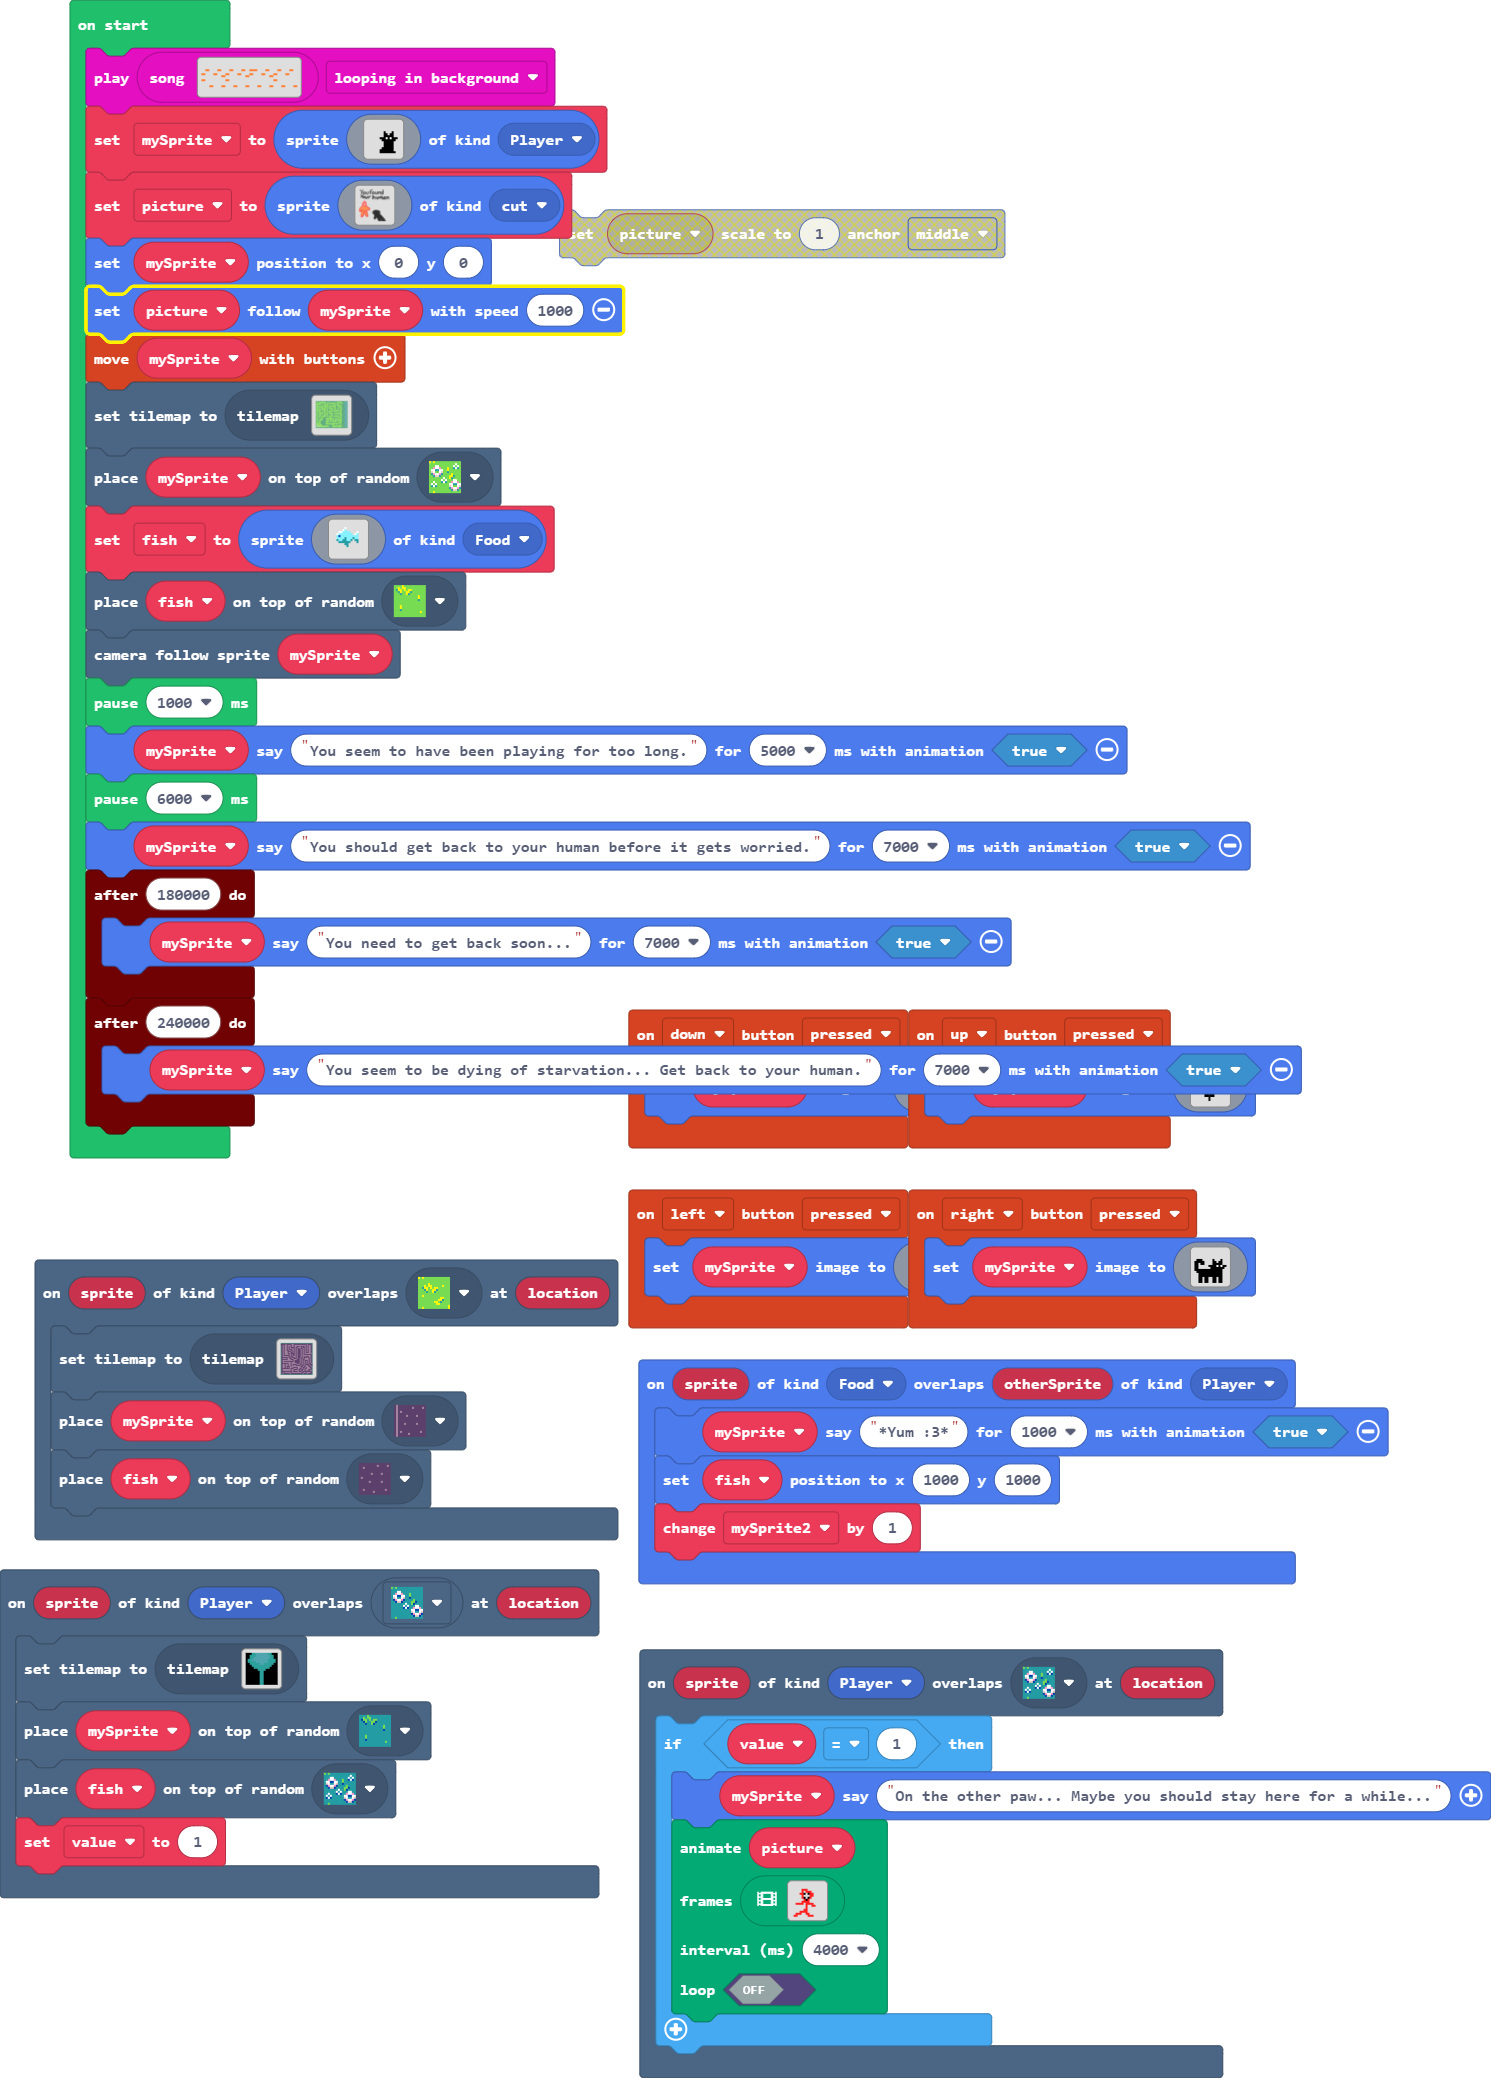
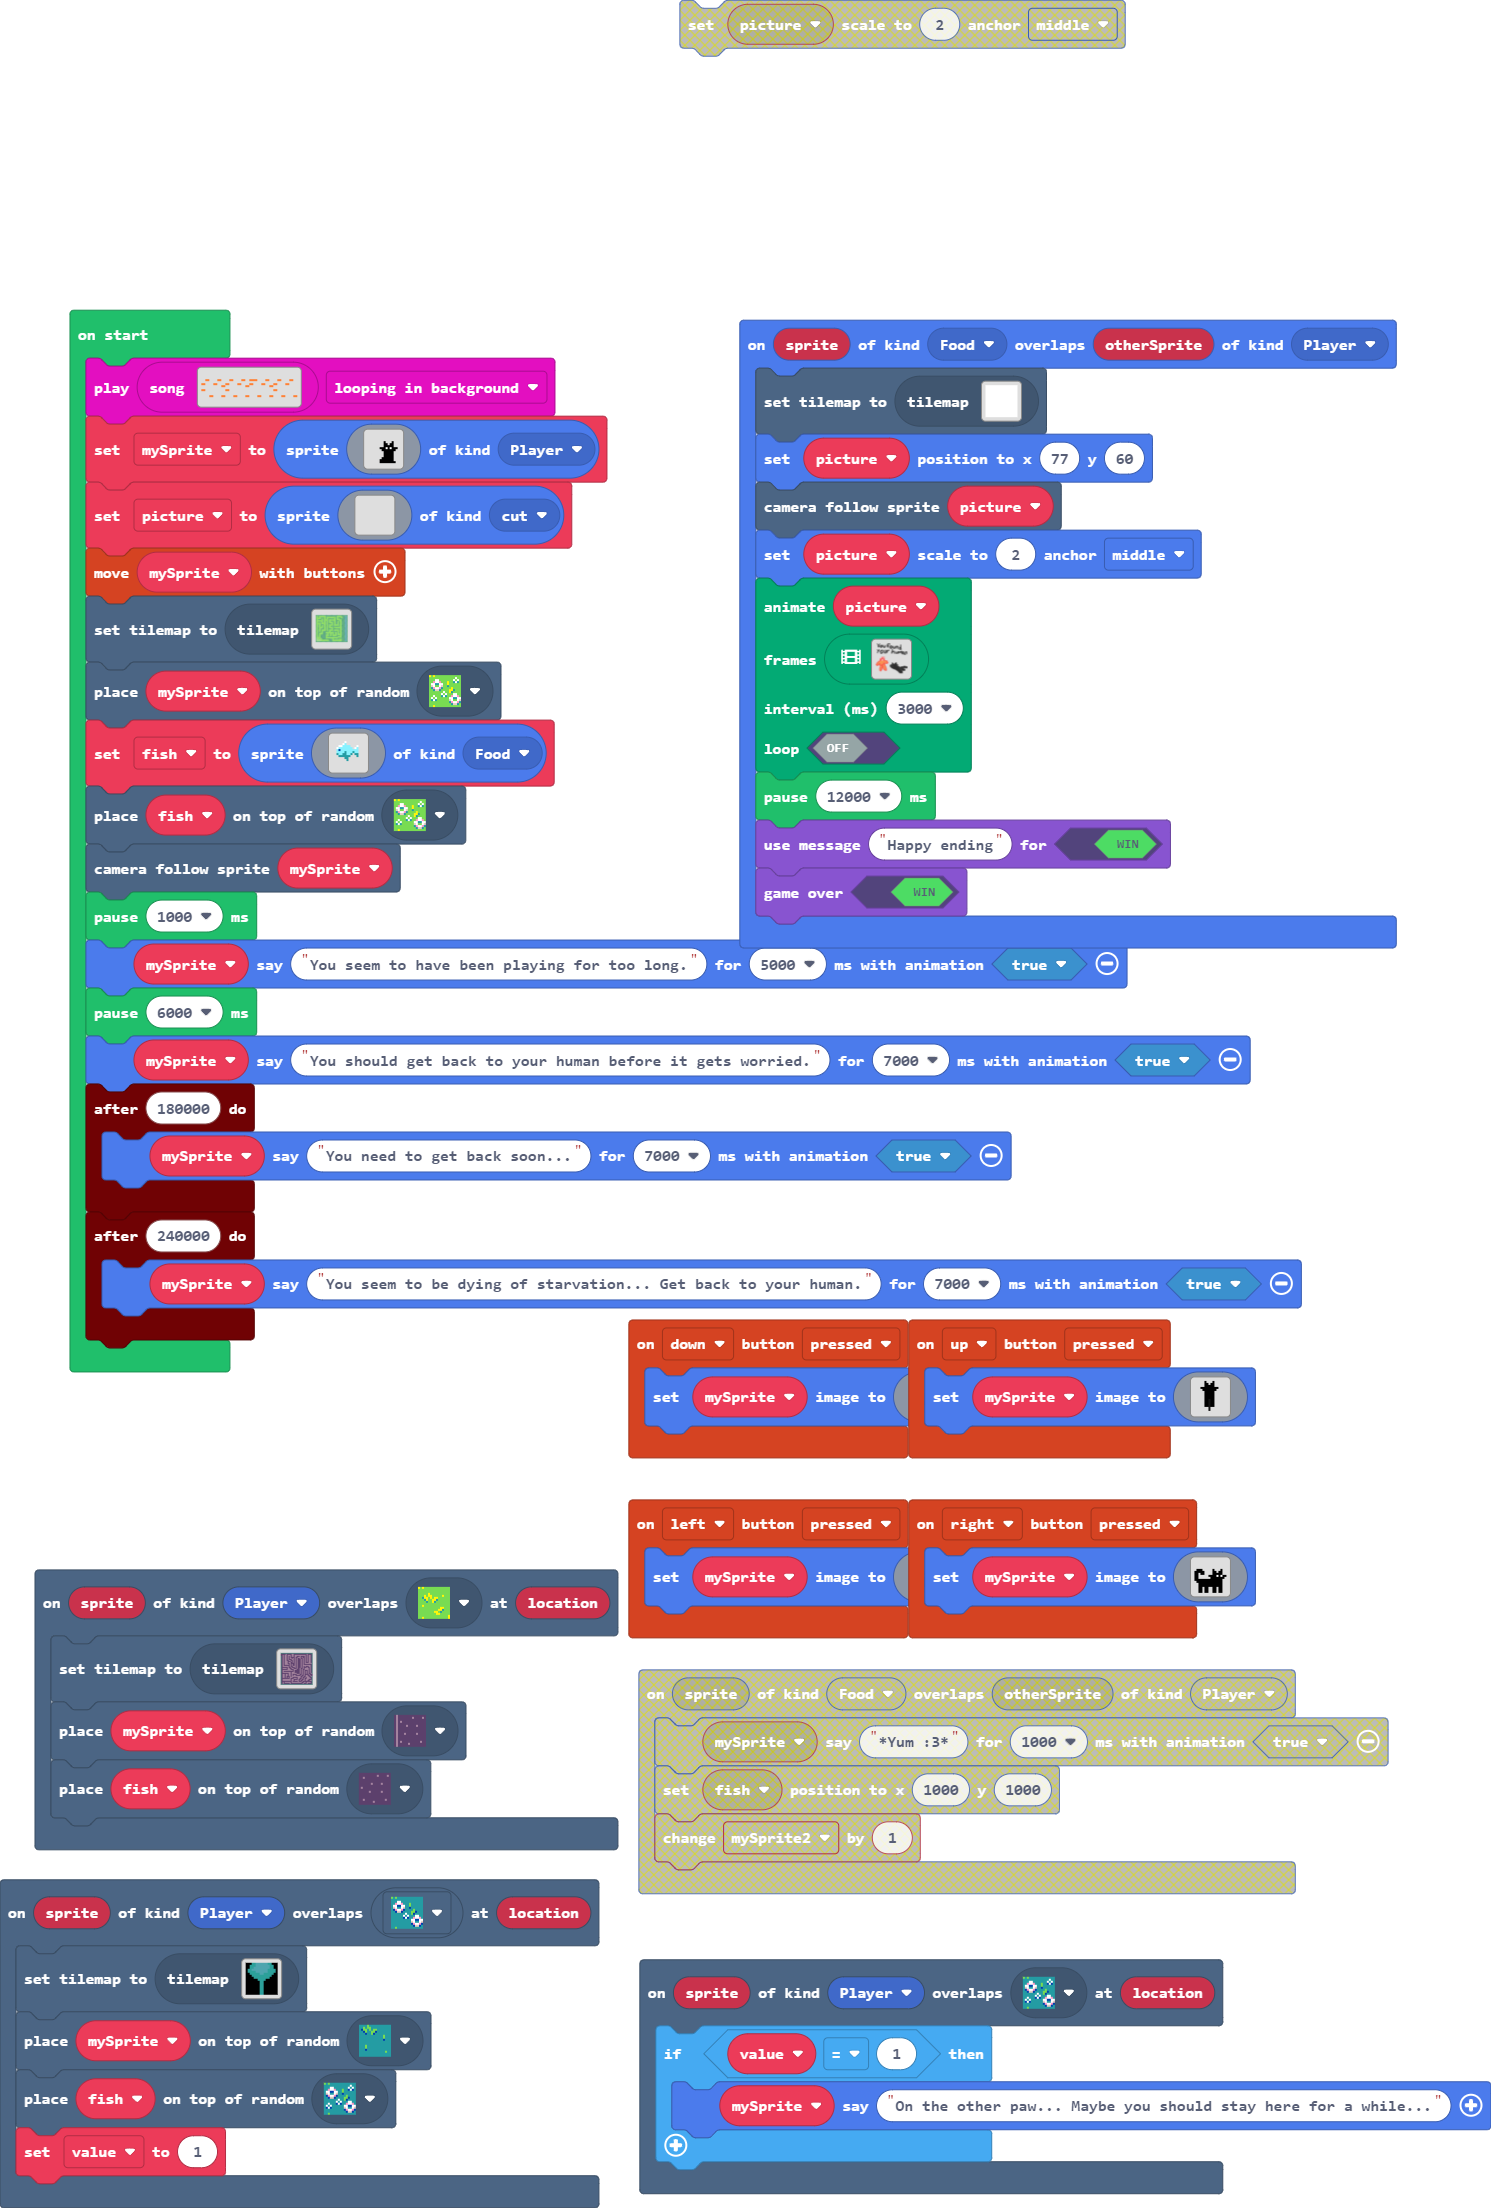
Update main.blocks, main.ts, tilemap.g.jres, tilemap.g.ts, images.g.jres, images.g.ts

diff --git a/tilemap.g.ts b/tilemap.g.ts
@@ -4,6 +4,10 @@ namespace myTiles {
     export const transparency16 = image.ofBuffer(hex``);
     //% fixedInstance jres blockIdentity=images._tile
     export const tile1 = image.ofBuffer(hex``);
+    //% fixedInstance jres blockIdentity=images._tile
+    export const tile3 = image.ofBuffer(hex``);
+    //% fixedInstance jres blockIdentity=images._tile
+    export const tile2 = image.ofBuffer(hex``);
 
     helpers._registerFactory("tilemap", function(name: string) {
         switch(helpers.stringTrim(name)) {
@@ -191,6 +195,82 @@ namespace myTiles {
 2...............2222.................2
 2.................................2222
 `, [myTiles.transparency16,sprites.castle.tileGrass2,sprites.builtin.forestTiles0,sprites.castle.tileGrass1,sprites.castle.tileGrass3,sprites.builtin.forestTiles16,sprites.castle.tileDarkGrass2,myTiles.tile1,sprites.builtin.forestTiles2,sprites.builtin.forestTiles3,sprites.builtin.forestTiles1], TileScale.Sixteen);
+            case "level10":
+            case "level10":return tiles.createTilemap(hex`1000100000000000000000000000000000000000000000000000000000000000000000000000000000000000000000000000000000000000000000000000000000000000000000000000000000000000000000000000000000000000000000000000000000000000000000000000000000000000000000000000000000000000000000000000000000000000000000000000000000000000000000000000000000000000000000000000000000000000000000000000000000000000000000000000000000000000000000000000000000000000000000000000000000000000000000000000000000000000000000000000000000000000000000000000000000000000`, img`
+. . . . . . . . . . . . . . . . 
+. . . . . . . . . . . . . . . . 
+. . . . . . . . . . . . . . . . 
+. . . . . . . . . . . . . . . . 
+. . . . . . . . . . . . . . . . 
+. . . . . . . . . . . . . . . . 
+. . . . . . . . . . . . . . . . 
+. . . . . . . . . . . . . . . . 
+. . . . . . . . . . . . . . . . 
+. . . . . . . . . . . . . . . . 
+. . . . . . . . . . . . . . . . 
+. . . . . . . . . . . . . . . . 
+. . . . . . . . . . . . . . . . 
+. . . . . . . . . . . . . . . . 
+. . . . . . . . . . . . . . . . 
+. . . . . . . . . . . . . . . . 
+`, [myTiles.transparency16], TileScale.Sixteen);
+            case "cutscene":
+            case "level11":return tiles.createTilemap(hex`1000100001010101010101010101010101010101010101010101010101010101010101010101010101010101010101010101010101010101010101010101010101010101010101010101010101010101010101010101010101010101010101010101010101010101010101010101010101010101010101010101010101010101010101010101010101010101010101010101010101010101010101010101010101010101010101010101010101010101010101010101010101010101010101010101010101010101010101010101010101010101010101010101010101010101010101010101010101010101010101010101010101010101010101010101010101010101`, img`
+. . . . . . . . . . . . . . . . 
+. . . . . . . . . . . . . . . . 
+. . . . . . . . . . . . . . . . 
+. . . . . . . . . . . . . . . . 
+. . . . . . . . . . . . . . . . 
+. . . . . . . . . . . . . . . . 
+. . . . . . . . . . . . . . . . 
+. . . . . . . . . . . . . . . . 
+. . . . . . . . . . . . . . . . 
+. . . . . . . . . . . . . . . . 
+. . . . . . . . . . . . . . . . 
+. . . . . . . . . . . . . . . . 
+. . . . . . . . . . . . . . . . 
+. . . . . . . . . . . . . . . . 
+. . . . . . . . . . . . . . . . 
+. . . . . . . . . . . . . . . . 
+`, [myTiles.transparency16,myTiles.tile2,myTiles.tile3], TileScale.Sixteen);
+            case "level12":
+            case "level12":return tiles.createTilemap(hex`1000100000000000000000000000000000000000000000000000000000000000000000000000000000000000000000000000000000000000000000000000000000000000000000000000000000000000000000000000000000000000000000000000000000000000000000000000000000000000000000000000000000000000000000000000000000000000000000000000000000000000000000000000000000000000000000000000000000000000000000000000000000000000000000000000000000000000000000000000000000000000000000000000000000000000000000000000000000000000000000000000000000000000000000000000000000000000`, img`
+. . . . . . . . . . . . . . . . 
+. . . . . . . . . . . . . . . . 
+. . . . . . . . . . . . . . . . 
+. . . . . . . . . . . . . . . . 
+. . . . . . . . . . . . . . . . 
+. . . . . . . . . . . . . . . . 
+. . . . . . . . . . . . . . . . 
+. . . . . . . . . . . . . . . . 
+. . . . . . . . . . . . . . . . 
+. . . . . . . . . . . . . . . . 
+. . . . . . . . . . . . . . . . 
+. . . . . . . . . . . . . . . . 
+. . . . . . . . . . . . . . . . 
+. . . . . . . . . . . . . . . . 
+. . . . . . . . . . . . . . . . 
+. . . . . . . . . . . . . . . . 
+`, [myTiles.transparency16], TileScale.Sixteen);
+            case "level13":
+            case "level13":return tiles.createTilemap(hex`1000100000000000000000000000000000000000000000000000000000000000000000000000000000000000000000000000000000000000000000000000000000000000000000000000000000000000000000000000000000000000000000000000000000000000000000000000000000000000000000000000000000000000000000000000000000000000000000000000000000000000000000000000000000000000000000000000000000000000000000000000000000000000000000000000000000000000000000000000000000000000000000000000000000000000000000000000000000000000000000000000000000000000000000000000000000000000`, img`
+. . . . . . . . . . . . . . . . 
+. . . . . . . . . . . . . . . . 
+. . . . . . . . . . . . . . . . 
+. . . . . . . . . . . . . . . . 
+. . . . . . . . . . . . . . . . 
+. . . . . . . . . . . . . . . . 
+. . . . . . . . . . . . . . . . 
+. . . . . . . . . . . . . . . . 
+. . . . . . . . . . . . . . . . 
+. . . . . . . . . . . . . . . . 
+. . . . . . . . . . . . . . . . 
+. . . . . . . . . . . . . . . . 
+. . . . . . . . . . . . . . . . 
+. . . . . . . . . . . . . . . . 
+. . . . . . . . . . . . . . . . 
+. . . . . . . . . . . . . . . . 
+`, [myTiles.transparency16], TileScale.Sixteen);
         }
         return null;
     })
@@ -200,6 +280,10 @@ namespace myTiles {
             case "transparency16":return transparency16;
             case "trigger1":
             case "tile1":return tile1;
+            case "myTile0":
+            case "tile3":return tile3;
+            case "ending":
+            case "tile2":return tile2;
         }
         return null;
     })

diff --git a/main.ts b/main.ts
@@ -26,9 +26,19 @@ controller.left.onEvent(ControllerButtonEvent.Pressed, function () {
     mySprite.setImage(assets.image`left`)
 })
 sprites.onOverlap(SpriteKind.Food, SpriteKind.Player, function (sprite, otherSprite) {
-    mySprite.sayText("*Yum :3*", 1000, true)
-    fish.setPosition(1000, 1000)
-    mySprite2 += 1
+    tiles.setCurrentTilemap(tilemap`cutscene`)
+    picture.setPosition(77, 60)
+    scene.cameraFollowSprite(picture)
+    picture.setScale(2, ScaleAnchor.Middle)
+    animation.runImageAnimation(
+    picture,
+    assets.animation`happy ending`,
+    3000,
+    false
+    )
+    pause(12000)
+    game.setGameOverMessage(true, "Happy ending")
+    game.gameOver(true)
 })
 controller.right.onEvent(ControllerButtonEvent.Pressed, function () {
     mySprite.setImage(assets.image`right`)
@@ -39,29 +49,20 @@ controller.down.onEvent(ControllerButtonEvent.Pressed, function () {
 scene.onOverlapTile(SpriteKind.Player, sprites.castle.tileDarkGrass2, function (sprite, location) {
     if (value == 1) {
         mySprite.sayText("On the other paw... Maybe you should stay here for a while...")
-        animation.runImageAnimation(
-        picture,
-        assets.animation`myAnim`,
-        4000,
-        false
-        )
     }
 })
-let mySprite2 = 0
 let value = 0
 let fish: Sprite = null
 let picture: Sprite = null
 let mySprite: Sprite = null
 music.play(music.createSong(assets.song`basic`), music.PlaybackMode.LoopingInBackground)
 mySprite = sprites.create(assets.image`sit0`, SpriteKind.Player)
-picture = sprites.create(assets.image`humanhunger ending`, SpriteKind.cut)
-mySprite.setPosition(0, 0)
-picture.follow(mySprite, 1000)
+picture = sprites.create(assets.image`myImage`, SpriteKind.cut)
 controller.moveSprite(mySprite)
 tiles.setCurrentTilemap(tilemap`level0`)
 tiles.placeOnRandomTile(mySprite, sprites.castle.tileGrass2)
 fish = sprites.create(assets.image`fish`, SpriteKind.Food)
-tiles.placeOnRandomTile(fish, sprites.castle.tileGrass1)
+tiles.placeOnRandomTile(fish, sprites.castle.tileGrass2)
 scene.cameraFollowSprite(mySprite)
 pause(1000)
 mySprite.sayText("You seem to have been playing for too long.", 5000, true)

diff --git a/images.g.ts b/images.g.ts
@@ -117,25 +117,6 @@ f f f f f f f f f f f f f f . .
 . . . . . . . . . . . . . . . . 
 . . . . . . . . . . . . . . . . 
 `;
-            case "image8":
-            case "myImage":return img`
-. . . . . . . . . . . . . . . . 
-. . . . . . . . . . . . . . . . 
-. . . . . . . . . . . . . . . . 
-. . . . . . . . . . . . . . . . 
-. . . . . . . . . . . . . . . . 
-. . . . . . . . . . . . . . . . 
-. . . . . . . . . . . . . . . . 
-. . . . . . . . . . . . . . . . 
-. . . . . . . . . . . . . . . . 
-. . . . . . . . . . . . . . . . 
-. . . . . . . . . . . . . . . . 
-. . . . . . . . . . . . . . . . 
-. . . . . . . . . . . . . . . . 
-. . . . . . . . . . . . . . . . 
-. . . . . . . . . . . . . . . . 
-. . . . . . . . . . . . . . . . 
-`;
             case "image7":
             case "humanhunger ending":return img`
 ................................................................
@@ -202,6 +183,25 @@ f f f f f f f f f f f f f f . .
 ......................................fffff.efffefff............
 .......................................fffff.effeffff...........
 ........................................fffff.effeffff..........
+`;
+            case "image8":
+            case "myImage":return img`
+. . . . . . . . . . . . . . . . 
+. . . . . . . . . . . . . . . . 
+. . . . . . . . . . . . . . . . 
+. . . . . . . . . . . . . . . . 
+. . . . . . . . . . . . . . . . 
+. . . . . . . . . . . . . . . . 
+. . . . . . . . . . . . . . . . 
+. . . . . . . . . . . . . . . . 
+. . . . . . . . . . . . . . . . 
+. . . . . . . . . . . . . . . . 
+. . . . . . . . . . . . . . . . 
+. . . . . . . . . . . . . . . . 
+. . . . . . . . . . . . . . . . 
+. . . . . . . . . . . . . . . . 
+. . . . . . . . . . . . . . . . 
+. . . . . . . . . . . . . . . . 
 `;
         }
         return null;
